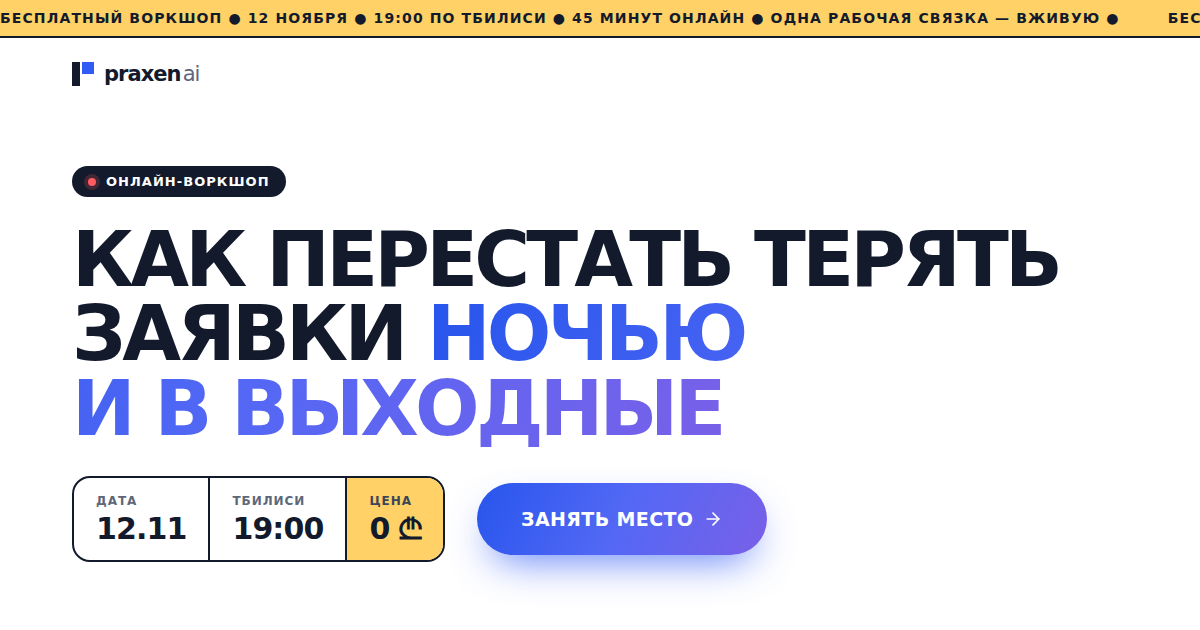
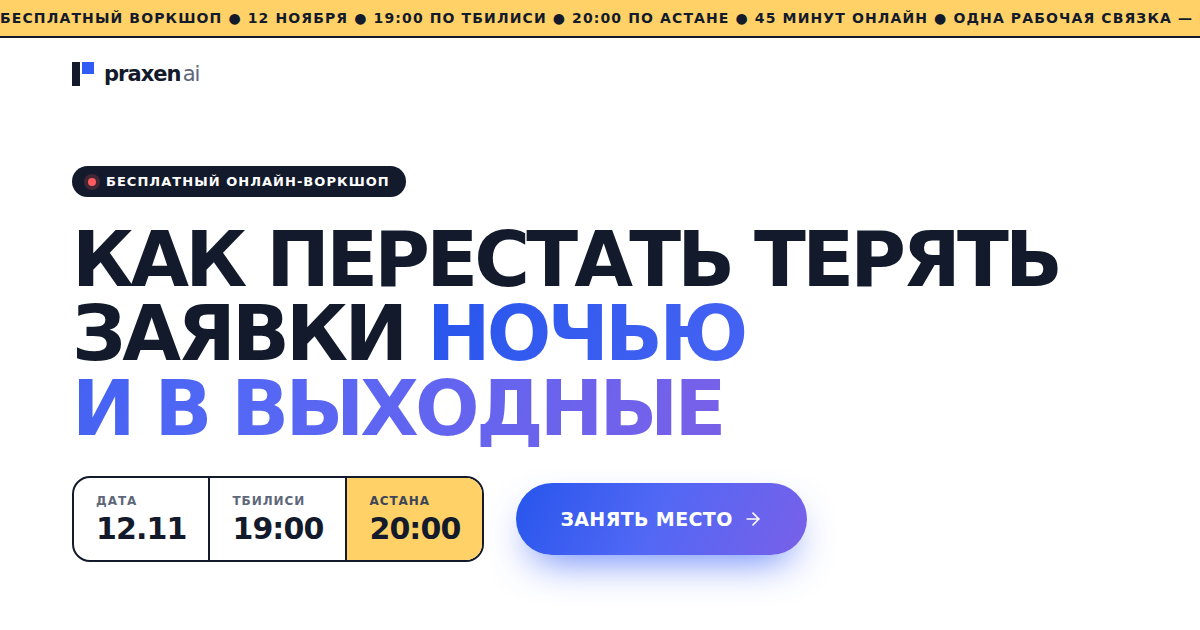
Workshop landing (ru): not only for Georgia — Astana time, neutral demo, any phone code
Claude-Session: https://claude.ai/code/session_01KL6o371qpbTr1MgjKJCrM5

Changed region(s): [[0.3083, 0.754, 0.6783, 0.9349], [0.4625, 0.0, 1.0, 0.0603], [0.0925, 0.2413, 0.3392, 0.3317]]

diff --git a/lib/webinar.ts b/lib/webinar.ts
@@ -47,21 +47,21 @@ const ru:WebinarCopy={
  event:'ru',
  title:'Воркшоп «ИИ в отделе продаж» 12 ноября — Praxen AI',
  description:'Бесплатный онлайн-воркшоп 12 ноября в 19:00 по Тбилиси: рабочие связки мессенджер → ИИ-ассистент → CRM → менеджер, каждую покажем вживую.',
- marquee:['Бесплатный воркшоп','12 ноября','19:00 по Тбилиси','45 минут онлайн','Одна рабочая связка — вживую'],
+ marquee:['Бесплатный воркшоп','12 ноября','19:00 по Тбилиси','20:00 по Астане','45 минут онлайн','Одна рабочая связка — вживую'],
  head:{cta:'Участвовать',home:'Praxen AI — главная'},
- hero:{badge:'Онлайн-воркшоп',host:'',h1:'Как перестать терять заявки',h1Grad:'ночью и в выходные',sub:'За 45 минут вживую соберём одну рабочую связку: мессенджер → ИИ-ассистент → CRM → менеджер. Шаг за шагом — чтобы вы повторили у себя.',info:[['Дата','12.11'],['Тбилиси','19:00'],['Цена','0 ₾']],cta:'Занять место',gift:'Подарок за регистрацию — чек-лист для отдела продаж'},
+ hero:{badge:'Бесплатный онлайн-воркшоп',host:'',h1:'Как перестать терять заявки',h1Grad:'ночью и в выходные',sub:'За 45 минут вживую соберём одну рабочую связку: мессенджер → ИИ-ассистент → CRM → менеджер. Шаг за шагом — чтобы вы повторили у себя.',info:[['Дата','12.11'],['Тбилиси','19:00'],['Астана','20:00']],cta:'Занять место',gift:'Подарок за регистрацию — чек-лист для отдела продаж'},
  manifest:{a:'Клиент написал в ',hl1:'23:40.',b:' Вы ответили в ',hl2:'09:30.',c:' За это время он уже написал конкурентам.',painLabel:'Боль',pains:['Клиенты пишут вечером и в выходные, а отвечаете вы только утром','Пока менеджер занят, клиент уже написал конкурентам','В CRM половины заявок нет, и непонятно, кому перезвонить','Менеджеры по десять раз в день отвечают на одни и те же вопросы']},
- blocks:{h:'Одна связка. 5 шагов',note:'Без теории. Собираем вживую от первого сообщения до сделки в CRM — повторите у себя по шагам.',items:[['01','Подключаем мессенджер','WhatsApp или Telegram: заявки из чата сразу попадают к ассистенту.','Шаг'],['02','Учим ассистента отвечать','Прайс, правила и частые вопросы. Ассистент отвечает на грузинском, английском и русском и выясняет задачу, бюджет и срок.','Шаг'],['03','Передаём сделку в CRM','Данные из переписки сами попадают в карточку сделки — без ручного ввода.','Шаг'],['04','Будим менеджера','Утром менеджер получает уведомление, готовую сделку и следующий шаг.','Шаг'],['05','Проверяем и считаем','Когда ассистент передаёт разговор человеку, как проверять ответы по журналу и какие цифры смотреть: время ответа и долю заявок в CRM.','Результат']]},
- demo:{sticker:'Вживую на воркшопе',h:'Ответ за секунды. Сделка — уже в CRM.',sub:'Так выглядит связка целиком: ассистент выясняет задачу, бюджет и срок, а утром менеджер получает готовую карточку.',typing:'ассистент печатает…',online:'ассистент на связи',crmHead:'Новая сделка в CRM',chat:[['in','Здравствуйте! Сколько стоит ремонт кухни 12 м²?','23:40'],['out','Здравствуйте! Подскажу. Какой у вас бюджет и к какому сроку нужно закончить?','23:40'],['in','До 15 000 ₾, к марту','23:42'],['out','Спасибо! Передаю менеджеру, он свяжется с вами утром и пришлёт варианты.','23:42']],crm:[['Клиент','Нино, WhatsApp'],['Задача','Ремонт кухни 12 м²'],['Бюджет','до 15 000 ₾'],['Срок','март'],['Следующий шаг','Позвонить утром']]},
+ blocks:{h:'Одна связка. 5 шагов',note:'Без теории. Собираем вживую от первого сообщения до сделки в CRM — повторите у себя по шагам.',items:[['01','Подключаем мессенджер','WhatsApp или Telegram: заявки из чата сразу попадают к ассистенту.','Шаг'],['02','Учим ассистента отвечать','Прайс, правила и частые вопросы. Ассистент отвечает на языке клиента и выясняет задачу, бюджет и срок.','Шаг'],['03','Передаём сделку в CRM','Данные из переписки сами попадают в карточку сделки — без ручного ввода.','Шаг'],['04','Будим менеджера','Утром менеджер получает уведомление, готовую сделку и следующий шаг.','Шаг'],['05','Проверяем и считаем','Когда ассистент передаёт разговор человеку, как проверять ответы по журналу и какие цифры смотреть: время ответа и долю заявок в CRM.','Результат']]},
+ demo:{sticker:'Вживую на воркшопе',h:'Ответ за секунды. Сделка — уже в CRM.',sub:'Так выглядит связка целиком: ассистент выясняет задачу, бюджет и срок, а утром менеджер получает готовую карточку.',typing:'ассистент печатает…',online:'ассистент на связи',crmHead:'Новая сделка в CRM',chat:[['in','Здравствуйте! Сколько стоит ремонт кухни 12 м²?','23:40'],['out','Здравствуйте! Подскажу. Какой у вас бюджет и к какому сроку нужно закончить?','23:40'],['in','До $5 000, к марту','23:42'],['out','Спасибо! Передаю менеджеру, он свяжется с вами утром и пришлёт варианты.','23:42']],crm:[['Клиент','Анна, WhatsApp'],['Задача','Ремонт кухни 12 м²'],['Бюджет','до $5 000'],['Срок','март'],['Следующий шаг','Позвонить утром']]},
  trust:[['shield-check','Официальный WhatsApp API'],['lock','Данные на ваших аккаунтах'],['user-check','Решения принимает человек']],
  fit:{h:'Воркшоп для вас, если',items:['Вы владелец бизнеса или руководитель продаж','Клиенты пишут в WhatsApp и Telegram — в том числе вечером и в выходные','Ваша сфера — услуги, недвижимость, отели и туризм, клиники или интернет-магазин'],noLabel:'Не подойдёт',no:'если заявок всего несколько в неделю, продажи идут только на встречах или нужен робот, который сам даёт скидки и закрывает сделки — на воркшопе этого не будет.'},
  host:{k:'Ведущий',name:'Евгений Будников',role:'Основатель Praxen AI',bio:'Отвечает за то, чтобы ИИ приносил бизнесу измеримый результат: разбирает процессы продаж и считает эффект в деньгах и часах.',quote:['«Сначала выручка, ','потом технология»'],principles:[['target','Считаем эффект.','Сначала — где ИИ даст результат в деньгах и часах, потом инструмент.'],['play','Только практика.','Собираем связку на экране, без слайдов с теорией.'],['message-circle','Ответы вживую.','Задавайте вопросы по ходу — разберём на ваших примерах.']]},
  reg:{h:'Регистрация',hGift:'+ 3 подарка',giftLabel:'Подарок',gifts:[['Чек-лист «10 вопросов»','Покажет, где ваш отдел продаж теряет заявки. Сразу после записи — в Telegram.'],['Запись воркшопа','В течение суток — всем, кто зарегистрировался.'],['Пошаговая схема связки','PDF со всеми шагами воркшопа, чтобы собрать связку у себя.']],countLabel:'До начала воркшопа',units:['дней','часов','минут','секунд']},
  faq:{h:'Вопросы',items:[['Правда бесплатно?','Да, участие бесплатное.'],['Нужны технические знания?','Нет. Рассказываем простыми словами и показываем каждый шаг на экране.'],['С какими CRM это работает?','На воркшопе покажем на тестовой CRM. Связка работает с amoCRM, Bitrix24, HubSpot, 1С и другими системами, у которых есть API.'],['Что с данными клиентов?','На воркшопе работаем на тестовых данных. В рабочей связке переписка и карточки остаются на ваших аккаунтах, а ассистент подключается через официальные API.'],['Что, если не смогу прийти?','Запись пришлём в Telegram в течение суток всем, кто зарегистрировался.']]},
- final:{k:'Следующая заявка придёт сегодня вечером',h:'12 ноября. 19:00.',cta:'Занять место бесплатно'},
+ final:{k:'Следующая заявка придёт сегодня вечером',h:'12 ноября. Онлайн.',cta:'Занять место бесплатно'},
  sticky:{label:'Воркшоп 12 ноября',until:'До начала:',d:'д',cta:'Занять место'},
- form:{title:'Занять место',sub:'12 ноября, 19:00 по Тбилиси · бесплатно',name:'Имя',where:'Куда прислать ссылку',methods:['Telegram','WhatsApp','Телефон'],tgPh:'@username или +995…',phonePh:'+995 5XX XXX XXX',submit:'Хочу на воркшоп',sending:'Отправляем…',consent:'Нажимая кнопку, вы соглашаетесь на обработку данных и сообщения о воркшопе.',privacy:'Политика конфиденциальности',invalid:'Проверьте контакт: номер телефона или @username в Telegram.',error:'Не получилось отправить. Попробуйте ещё раз или напишите нам в WhatsApp.',
-  doneTitle:'Вы записаны!',doneText:'12 ноября, 19:00 по Тбилиси. Чек-лист, ссылку и напоминания пришлёт наш бот в Telegram — откройте его.',bot:'Открыть бота в Telegram',pdf:'Скачать чек-лист сразу',calGoogle:'Google Календарь',calIcs:'Файл календаря',share:'Пригласить коллегу',copied:'Ссылка скопирована',qTitle:'Какой вопрос разобрать на воркшопе?',qPh:'Например: как ассистент поймёт наш прайс?',industryLabel:'Ваша сфера',industries:['Услуги','Недвижимость','Туризм и отели','Клиника','Интернет-магазин','Другое'],qSend:'Отправить вопрос',qDone:'Спасибо! Разберём на воркшопе.',context:'Воркшоп 12 ноября (RU)'},
+ form:{title:'Занять место',sub:'12 ноября, 19:00 по Тбилиси · 20:00 по Астане · бесплатно',name:'Имя',where:'Куда прислать ссылку',methods:['Telegram','WhatsApp','Телефон'],tgPh:'@username или номер',phonePh:'+995… или +7…',submit:'Хочу на воркшоп',sending:'Отправляем…',consent:'Нажимая кнопку, вы соглашаетесь на обработку данных и сообщения о воркшопе.',privacy:'Политика конфиденциальности',invalid:'Проверьте контакт: номер телефона или @username в Telegram.',error:'Не получилось отправить. Попробуйте ещё раз или напишите нам в WhatsApp.',
+  doneTitle:'Вы записаны!',doneText:'12 ноября, 19:00 по Тбилиси (20:00 по Астане). Чек-лист, ссылку и напоминания пришлёт наш бот в Telegram — откройте его.',bot:'Открыть бота в Telegram',pdf:'Скачать чек-лист сразу',calGoogle:'Google Календарь',calIcs:'Файл календаря',share:'Пригласить коллегу',copied:'Ссылка скопирована',qTitle:'Какой вопрос разобрать на воркшопе?',qPh:'Например: как ассистент поймёт наш прайс?',industryLabel:'Ваша сфера',industries:['Услуги','Недвижимость','Туризм и отели','Клиника','Интернет-магазин','Другое'],qSend:'Отправить вопрос',qDone:'Спасибо! Разберём на воркшопе.',context:'Воркшоп 12 ноября (RU)'},
  foot:{location:'Батуми, Грузия',privacy:'Конфиденциальность'},close:'Закрыть',
 };
 
